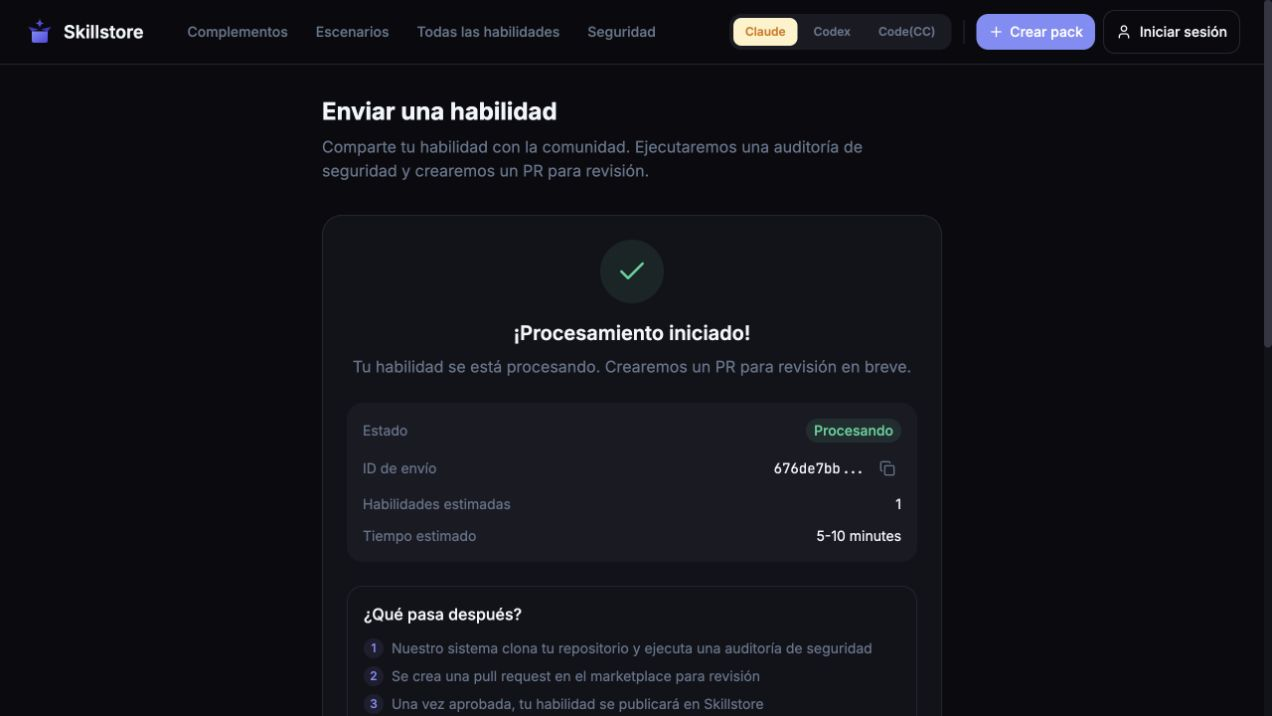
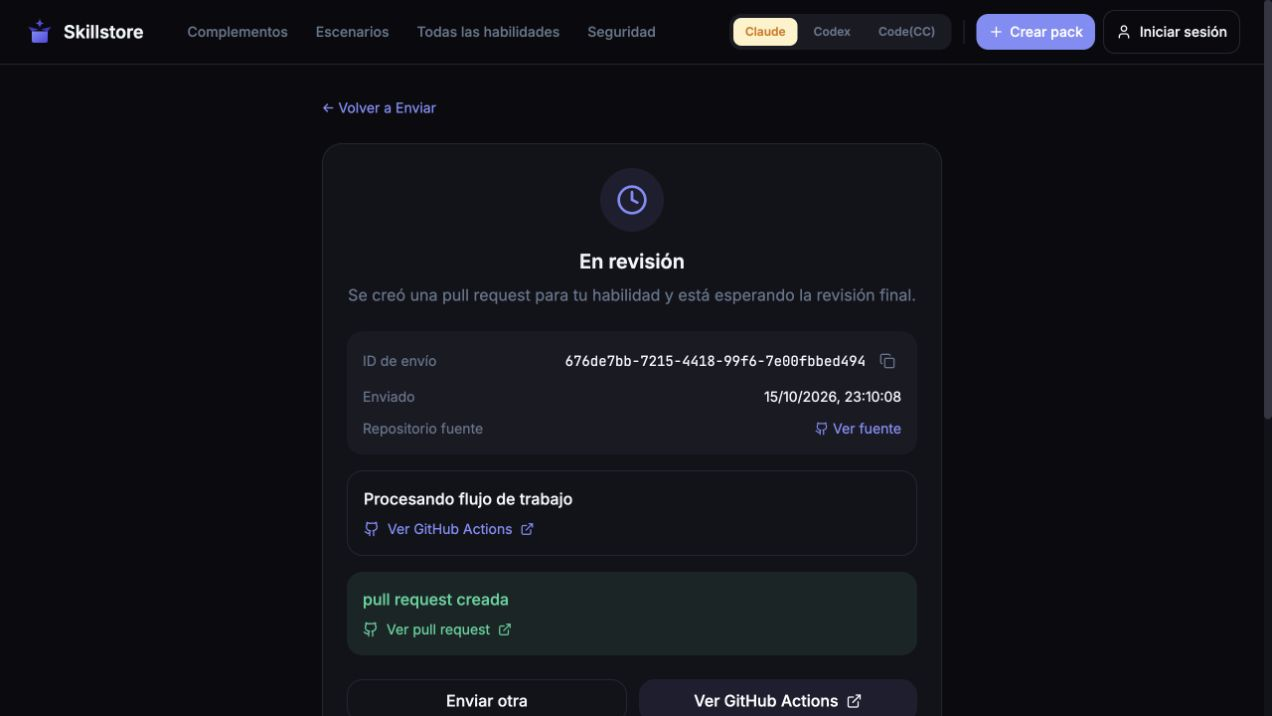
docs: record passing CI and Skillstore review status [skip ci]

diff --git a/docs/distribution.md b/docs/distribution.md
@@ -8,7 +8,7 @@ Estado comprobado el 15 de octubre de 2026. Se conserva la versión validada v0.
 | --- | --- | --- |
 | GitHub | Publicado: repositorio público MIT, etiqueta y archivo instalable con checksums | [Repositorio](https://github.com/PedroMorenoTrujillo/neural-ai), [release](https://github.com/PedroMorenoTrujillo/neural-ai/releases/tag/v0.1.0) |
 | Skills.sh | Publicado y ficha verificada en navegador | [neural-ui](https://www.skills.sh/pedromorenotrujillo/neural-ai/neural-ui), [captura](assets/skills-sh-listing.jpg) |
-| Skillstore | Enviado gratuitamente; procesamiento y revisión externa pendientes | [Seguimiento](https://skillstore.io/es/submissions/676de7bb-7215-4418-99f6-7e00fbbed494), [auditoría del directorio](https://github.com/aiskillstore/marketplace/actions/runs/38807780270), [justificante](assets/skillstore-submission.jpg) |
+| Skillstore | Procesamiento superado; PR creada y en revisión final, todavía no publicado | [PR #3792](https://github.com/aiskillstore/marketplace/pull/3792), [seguimiento](https://skillstore.io/es/submissions/676de7bb-7215-4418-99f6-7e00fbbed494), [workflow superado](https://github.com/aiskillstore/marketplace/actions/runs/38807780270), [justificante](assets/skillstore-submission.jpg) |
 | SkillsMP | Preparado para indexación automática; ficha no confirmada | [FAQ oficial](https://skillsmp.com/docs/faq): topics claude-skills y claude-code-skill añadidos; sincronización diaria |
 | Skills Directory | Pendiente por autenticación | [Acceso al envío](https://app.skillsdirectory.com/sign-in?returnTo=%2Fsubmit); requiere una sesión interactiva del titular que no se ha completado |
 | VoltAgent | No enviado: todavía no cumple el requisito de adopción comunitaria | [Reglas de contribución](https://github.com/VoltAgent/awesome-agent-skills/blob/main/CONTRIBUTING.md) |
@@ -54,6 +54,8 @@ Comprobaciones realizadas:
 
 Resultado: **2 escenarios nuevos superados**, además de **11 pruebas de contratos/instalación/compilación negativa y 8 escenarios Chromium de la suite original**. Las ejecuciones originales de GitHub Actions en [main](https://github.com/PedroMorenoTrujillo/neural-ai/actions/runs/38804446468) y en [v0.1.0](https://github.com/PedroMorenoTrujillo/neural-ai/actions/runs/38804794934) estaban superadas antes de distribuir la versión.
 
+El flujo ampliado también está [superado en Linux](https://github.com/PedroMorenoTrujillo/neural-ai/actions/runs/38808505548): suite original, instalación limpia completa, enlaces, procedencia y empaquetado. La [evidencia estructurada de CI](../evidence/distribution/ci.json) registra el commit comprobado y la conclusión de cada paso.
+
 Para reproducir toda la instalación limpia:
 
 ```sh
@@ -68,4 +70,4 @@ La instalación y la aplicación real están probadas. Las sesiones independient
 
 ## Trabajo externo pendiente
 
-Skillstore debe terminar su procesamiento y revisión. SkillsMP debe sincronizar su índice. Skills Directory requiere una sesión autenticada. Los listados curados tienen condiciones de elegibilidad que aún no se cumplen. No se ha creado una automatización de seguimiento ni contratado herramientas para resolver esos pasos.
+Skillstore debe aprobar la PR ya creada. SkillsMP debe sincronizar su índice. Skills Directory requiere una sesión autenticada. Los listados curados tienen condiciones de elegibilidad que aún no se cumplen. No se ha creado una automatización de seguimiento ni contratado herramientas para resolver esos pasos.
